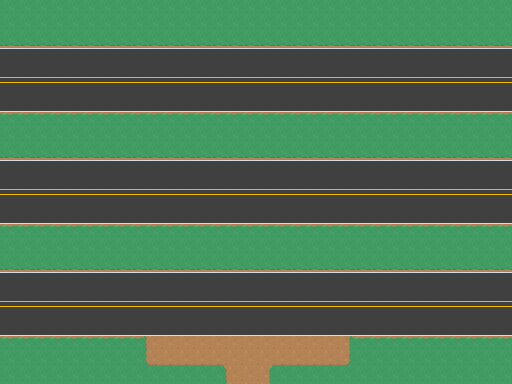
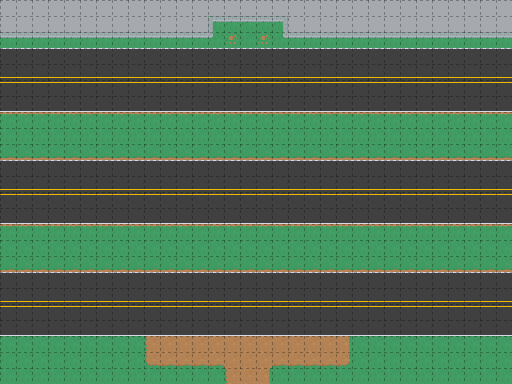
Added resource files and lanes enum

Changed region(s): [[0.0, 0.0, 1.0, 0.125], [0.6875, 0.875, 1.0, 0.9062], [0.0, 0.875, 0.2812, 0.9062]]

diff --git a/src/Game/CarFactory.java b/src/Game/CarFactory.java
@@ -12,46 +12,21 @@ public class CarFactory {
     public static LinkedList<Integer> leftRows;
     public static LinkedList<Integer> rightRows;
 
+
     public static String getCarImage(MovementDir moveDir){
         return MovementDir.LEFT.equals(moveDir) ? "src/resources/carW.png" : "src/resources/carX.png";
-    }
-
-    /* This is used to get the starting rows by the color of the tarmac */
-    public static int generateStartRows(Grid grid){
-
-        Picture backgroundImage = grid.getBackground();
-        for(int i = 0; i < grid.getBackground().pixels(); i *= grid.getBackground().getWidth()){
-
-            Color pixelColor = backgroundImage.getColorAt(i);
-
-            if(pixelColor.getRed() == 64 && pixelColor.getGreen() == 156 && pixelColor.getBlue() == 98){
-                int startRow = Util.getPixelPos(i);
-                System.out.println("Found");
-            }
-
-        }
-
-        Color color = grid.getBackground().getColorAt(grid.getBackground().getX() + Util.getRowY(5));
-        System.out.printf("R: %d G: %d B: %d", color.getRed(), color.getGreen(), color.getBlue());
-        return 1;
     }
 
     public static void generateCar(LinkedList<Car> cars){
 
         //Todo this is a bad implementation
-        int startRow = Math.random() < 0.3 ? 4 : Math.random() < 0.5 ? 8 : 11 ;
-        MovementDir moveDir = startRow == 11 ? MovementDir.RIGHT : MovementDir.LEFT;
-
-        String carImage = getCarImage(moveDir);
-        int imageWidth = Util.getImageWidth(carImage);
-
-        int startCol =  moveDir.equals(MovementDir.RIGHT) ? 0 :  Grid.COLS - (imageWidth / Grid.CELLSIZE);
+        Lanes randomLane = Lanes.values()[(int)(Math.random() * Lanes.values().length)]; //Generates a random lane position
 
         for(Car c : cars){
 
-            int what = Util.getColX(startCol);
-            float distanceX = Util.getDistance(c.getX() , Util.getColX(startCol));
-            float distanceY = Util.getDistance(c.getY(), Util.getRowY(startRow));
+            int what = Util.getColX(randomLane.getStartCol());
+            float distanceX = Util.getDistance(c.getX() , Util.getColX(randomLane.getStartCol()));
+            float distanceY = Util.getDistance(c.getY(), Util.getRowY(randomLane.getStartRow()));
 
             float minDistance = (float)((Math.random() * 250) + 50);
 
@@ -59,6 +34,6 @@ public class CarFactory {
                 return;
         }
 
-       cars.add(new Car(startCol, startRow, carImage, moveDir));
+       cars.add(new Car(randomLane.getStartCol(), randomLane.getStartRow(), getCarImage(randomLane.getMoveDir()), randomLane.getMoveDir()));
     }
 }

diff --git a/src/Game/Lanes.java b/src/Game/Lanes.java
@@ -1,0 +1,33 @@
+package Game;
+
+import Game.Grid.Grid;
+
+public enum Lanes{
+    FIRST(3, MovementDir.LEFT),
+    SECOND(5, MovementDir.RIGHT),
+    THIRD(10, MovementDir.LEFT),
+    FOURTH(12, MovementDir.RIGHT),
+    FIFTH(17, MovementDir.LEFT),
+    SIXTH(19, MovementDir.RIGHT);
+
+    private final int rowNumber;
+    private final MovementDir moveDir;
+
+    public int getStartRow(){
+        return rowNumber;
+    }
+
+    public MovementDir getMoveDir(){
+        return this.moveDir;
+    }
+
+    public int getStartCol(){
+        int imageWidth = Util.getImageWidth(CarFactory.getCarImage(moveDir));
+        return this.moveDir.equals(MovementDir.RIGHT) ? 0 :  Grid.COLS - (imageWidth / Grid.CELLSIZE);
+    }
+
+    Lanes(int rowNumber, MovementDir moveDir){
+        this.rowNumber = rowNumber;
+        this.moveDir = moveDir;
+    }
+}

diff --git a/src/Game/Grid/Grid.java b/src/Game/Grid/Grid.java
@@ -14,10 +14,8 @@ public class Grid { //Maybe we could extend from Rectangle
     public static final int COLS = 32;
     public static final int ROWS = 24;
     public Grid(){
-        this.background = new Picture(PADDING, PADDING, "src/resources/fMap.png");
+        this.background = new Picture(PADDING, PADDING, "src/resources/fMapGrid.png");
         this.background.draw();
-
-        //CarFactory.generateStartRows(this); //Testing
     }
 
     public int getCols() {

diff --git a/src/Game/Cross4All.java b/src/Game/Cross4All.java
@@ -23,7 +23,7 @@ public class Cross4All implements Game{
 
         while(true){ //Todo create game loop logic
 
-            if(cars.size() < 5)
+            if(cars.size() < 20)
                 CarFactory.generateCar(cars);
 
             for(int i = 0; i < cars.size(); i++){
